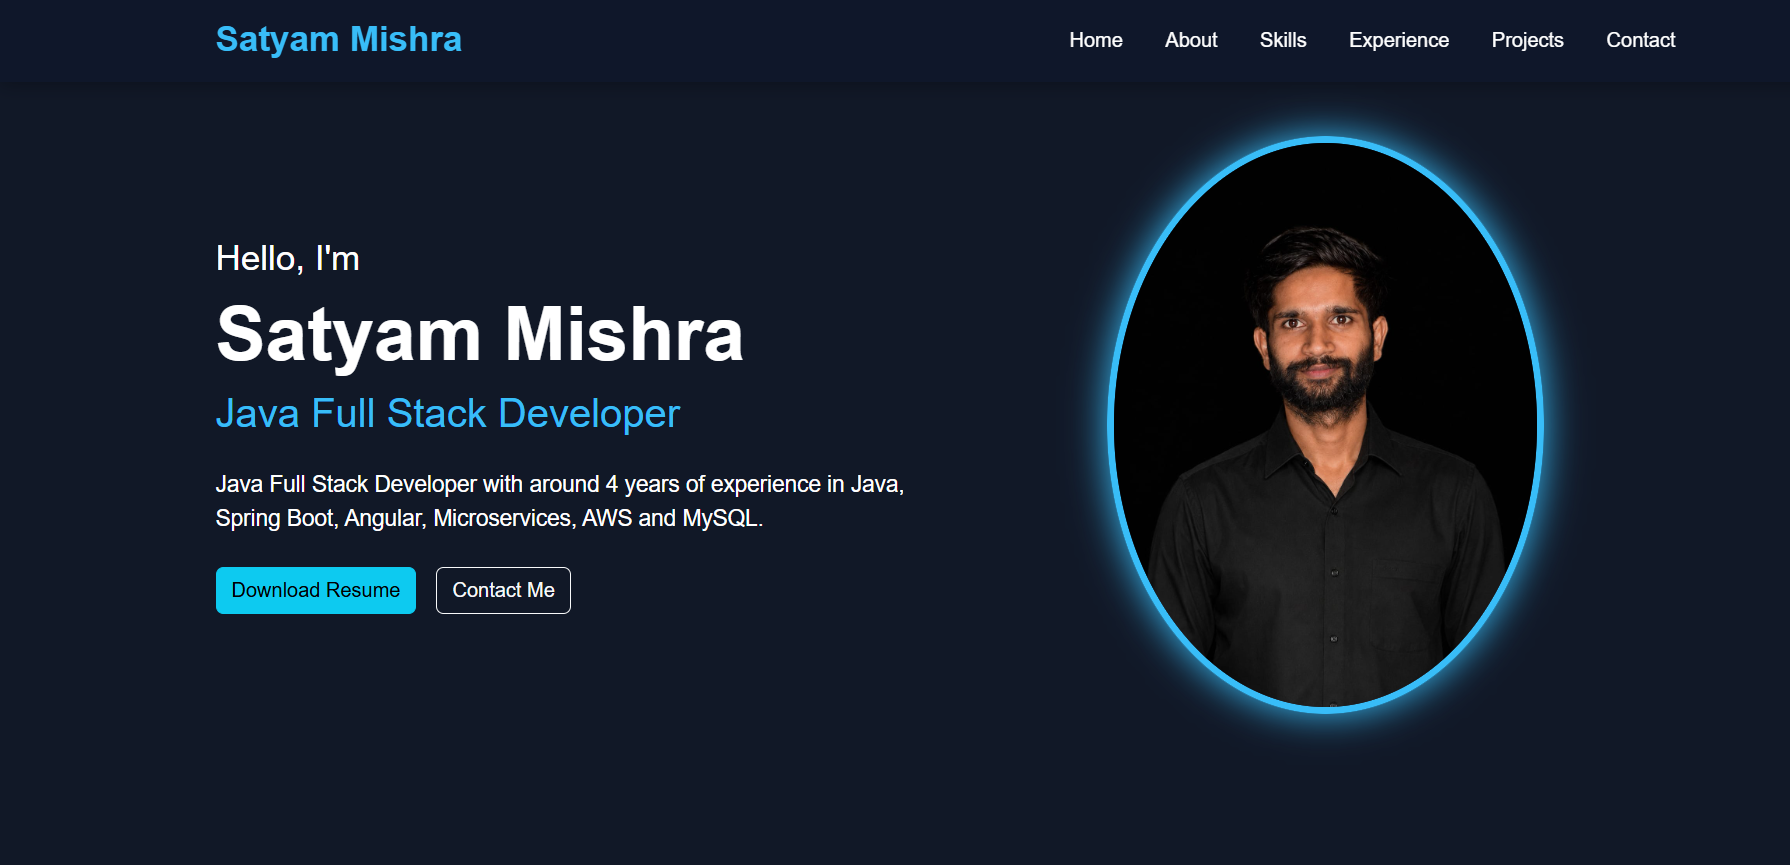
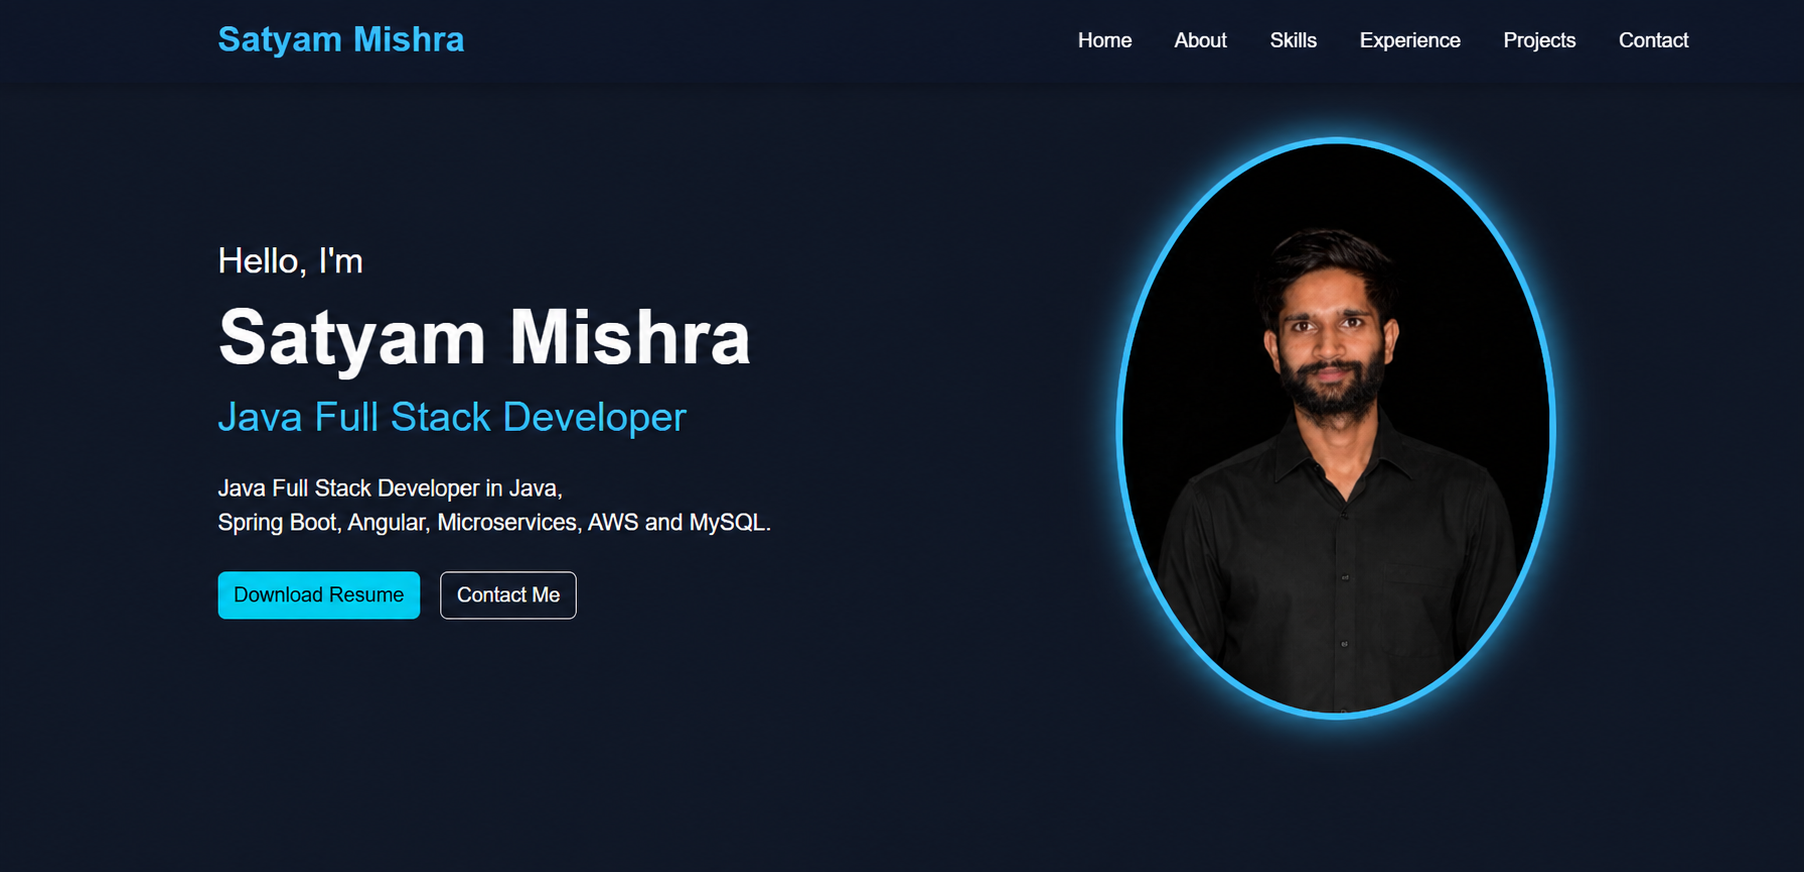
Update portfolio details and profile

diff --git a/src/app/components/about/about.html b/src/app/components/about/about.html
@@ -11,9 +11,7 @@
         <h3>Java Full Stack Developer</h3>
 
         <p>
-          I'm a Java Full Stack Developer with around 4 years of experience in
-          building scalable enterprise applications using Java, Spring Boot,
-          Angular, and Microservices.
+          I'm a Java Full Stack Developer in building scalable enterprise applications using Java, Spring Boot, Angular, and Microservices.
         </p>
 
         <p>
@@ -32,11 +30,11 @@
 
           <p><strong>Role :</strong> Java Full Stack Developer</p>
 
-          <p><strong>Experience :</strong> 4+ Years</p>
+          <p><strong>Experience :</strong> Fresher</p>
 
           <p><strong>Email :</strong> sataymmishra75690@gmail.com</p>
 
-          <p><strong>Location :</strong> Bengaluru, India</p>
+          <p><strong>Location :</strong> Hyderabad, India</p>
 
         </div>
 

diff --git a/src/app/components/home/home.html b/src/app/components/home/home.html
@@ -13,8 +13,7 @@
                 <h2>Java Full Stack Developer</h2>
 
                 <p>
-                    Java Full Stack Developer with around 4 years of experience
-                    in Java, Spring Boot, Angular, Microservices, AWS and MySQL.
+                    Java Full Stack Developer in Java, Spring Boot, Angular, Microservices, AWS and MySQL.
                 </p>
 
                 <button class="btn btn-info me-3">

diff --git a/src/app/components/experience/experience.html b/src/app/components/experience/experience.html
@@ -17,12 +17,12 @@
                 <div class="timeline-content">
 
                     <span class="duration">
-                        Feb 2024 - Present
+                        
                     </span>
 
                     <h3>Java Full Stack Developer</h3>
 
-                    <h4>Hutech Solution (Zeta IT Innovations)</h4>
+                    
 
                     <ul>
 

diff --git a/src/app/components/education/education.html b/src/app/components/education/education.html
@@ -17,7 +17,7 @@
             <div class="education-content">
 
                 <span class="year">
-                    2018 - 2022
+                    2021 - 2025
                 </span>
 
                 <h3>Bachelor of Technology (B.Tech)</h3>
